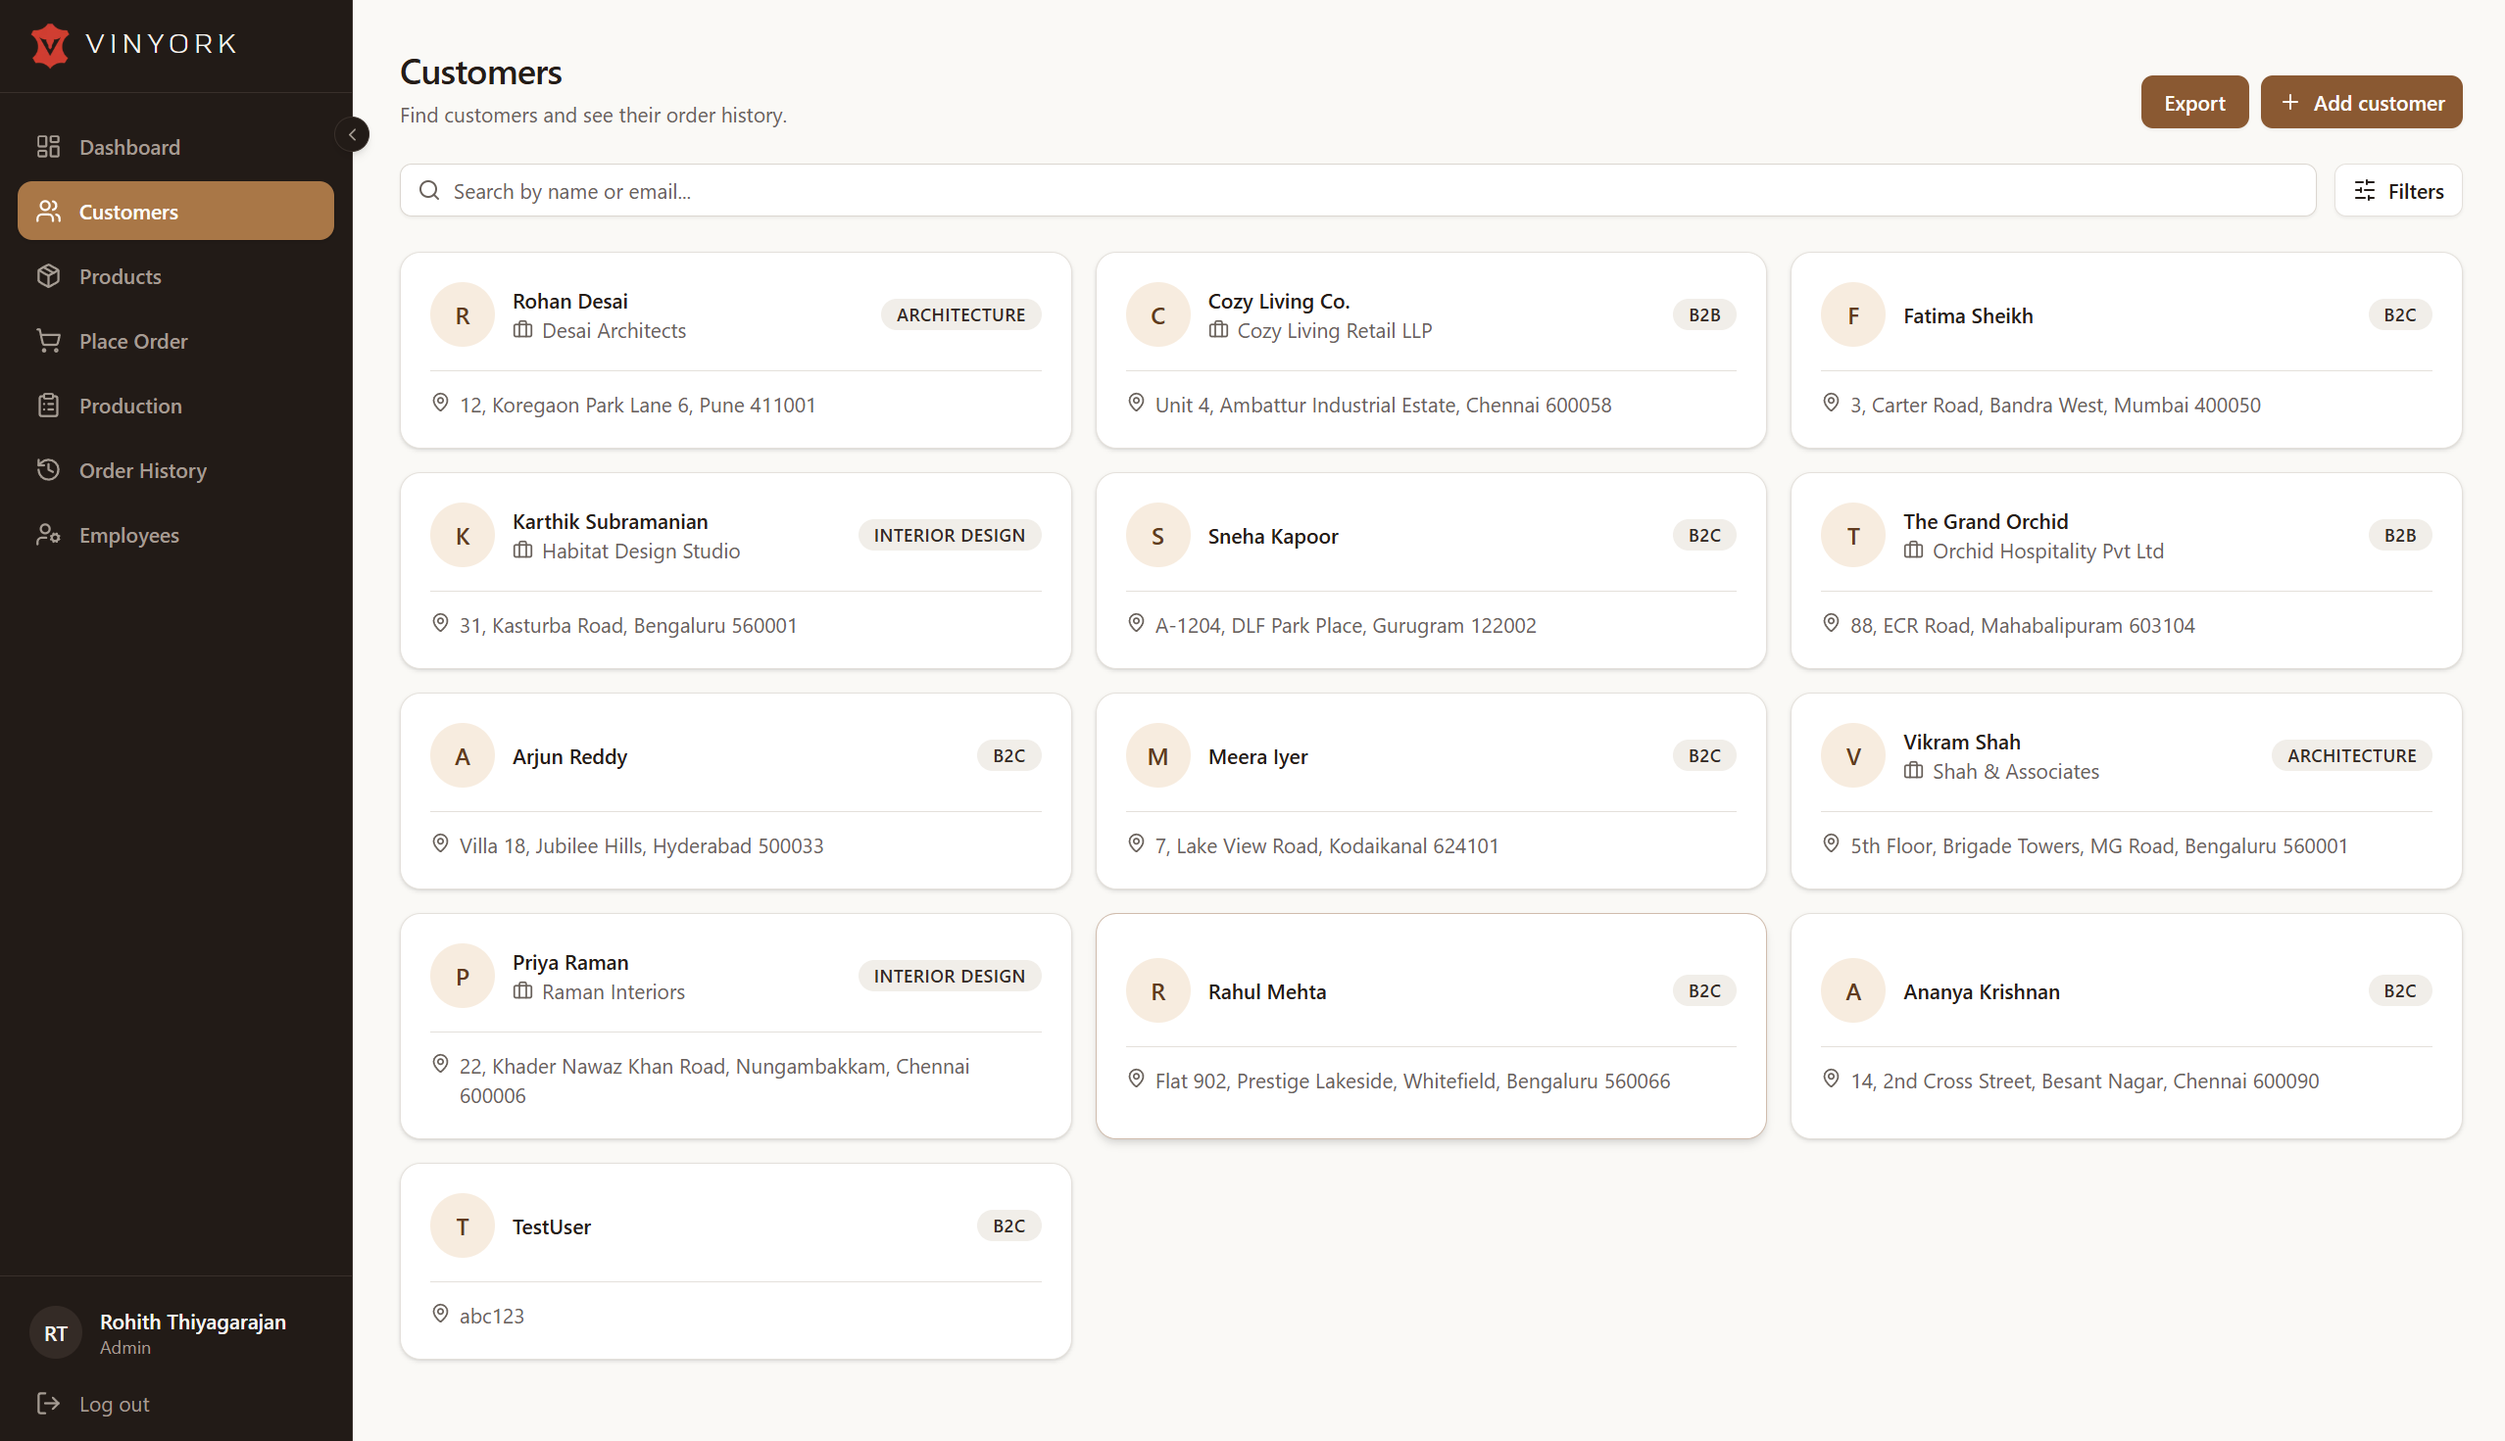
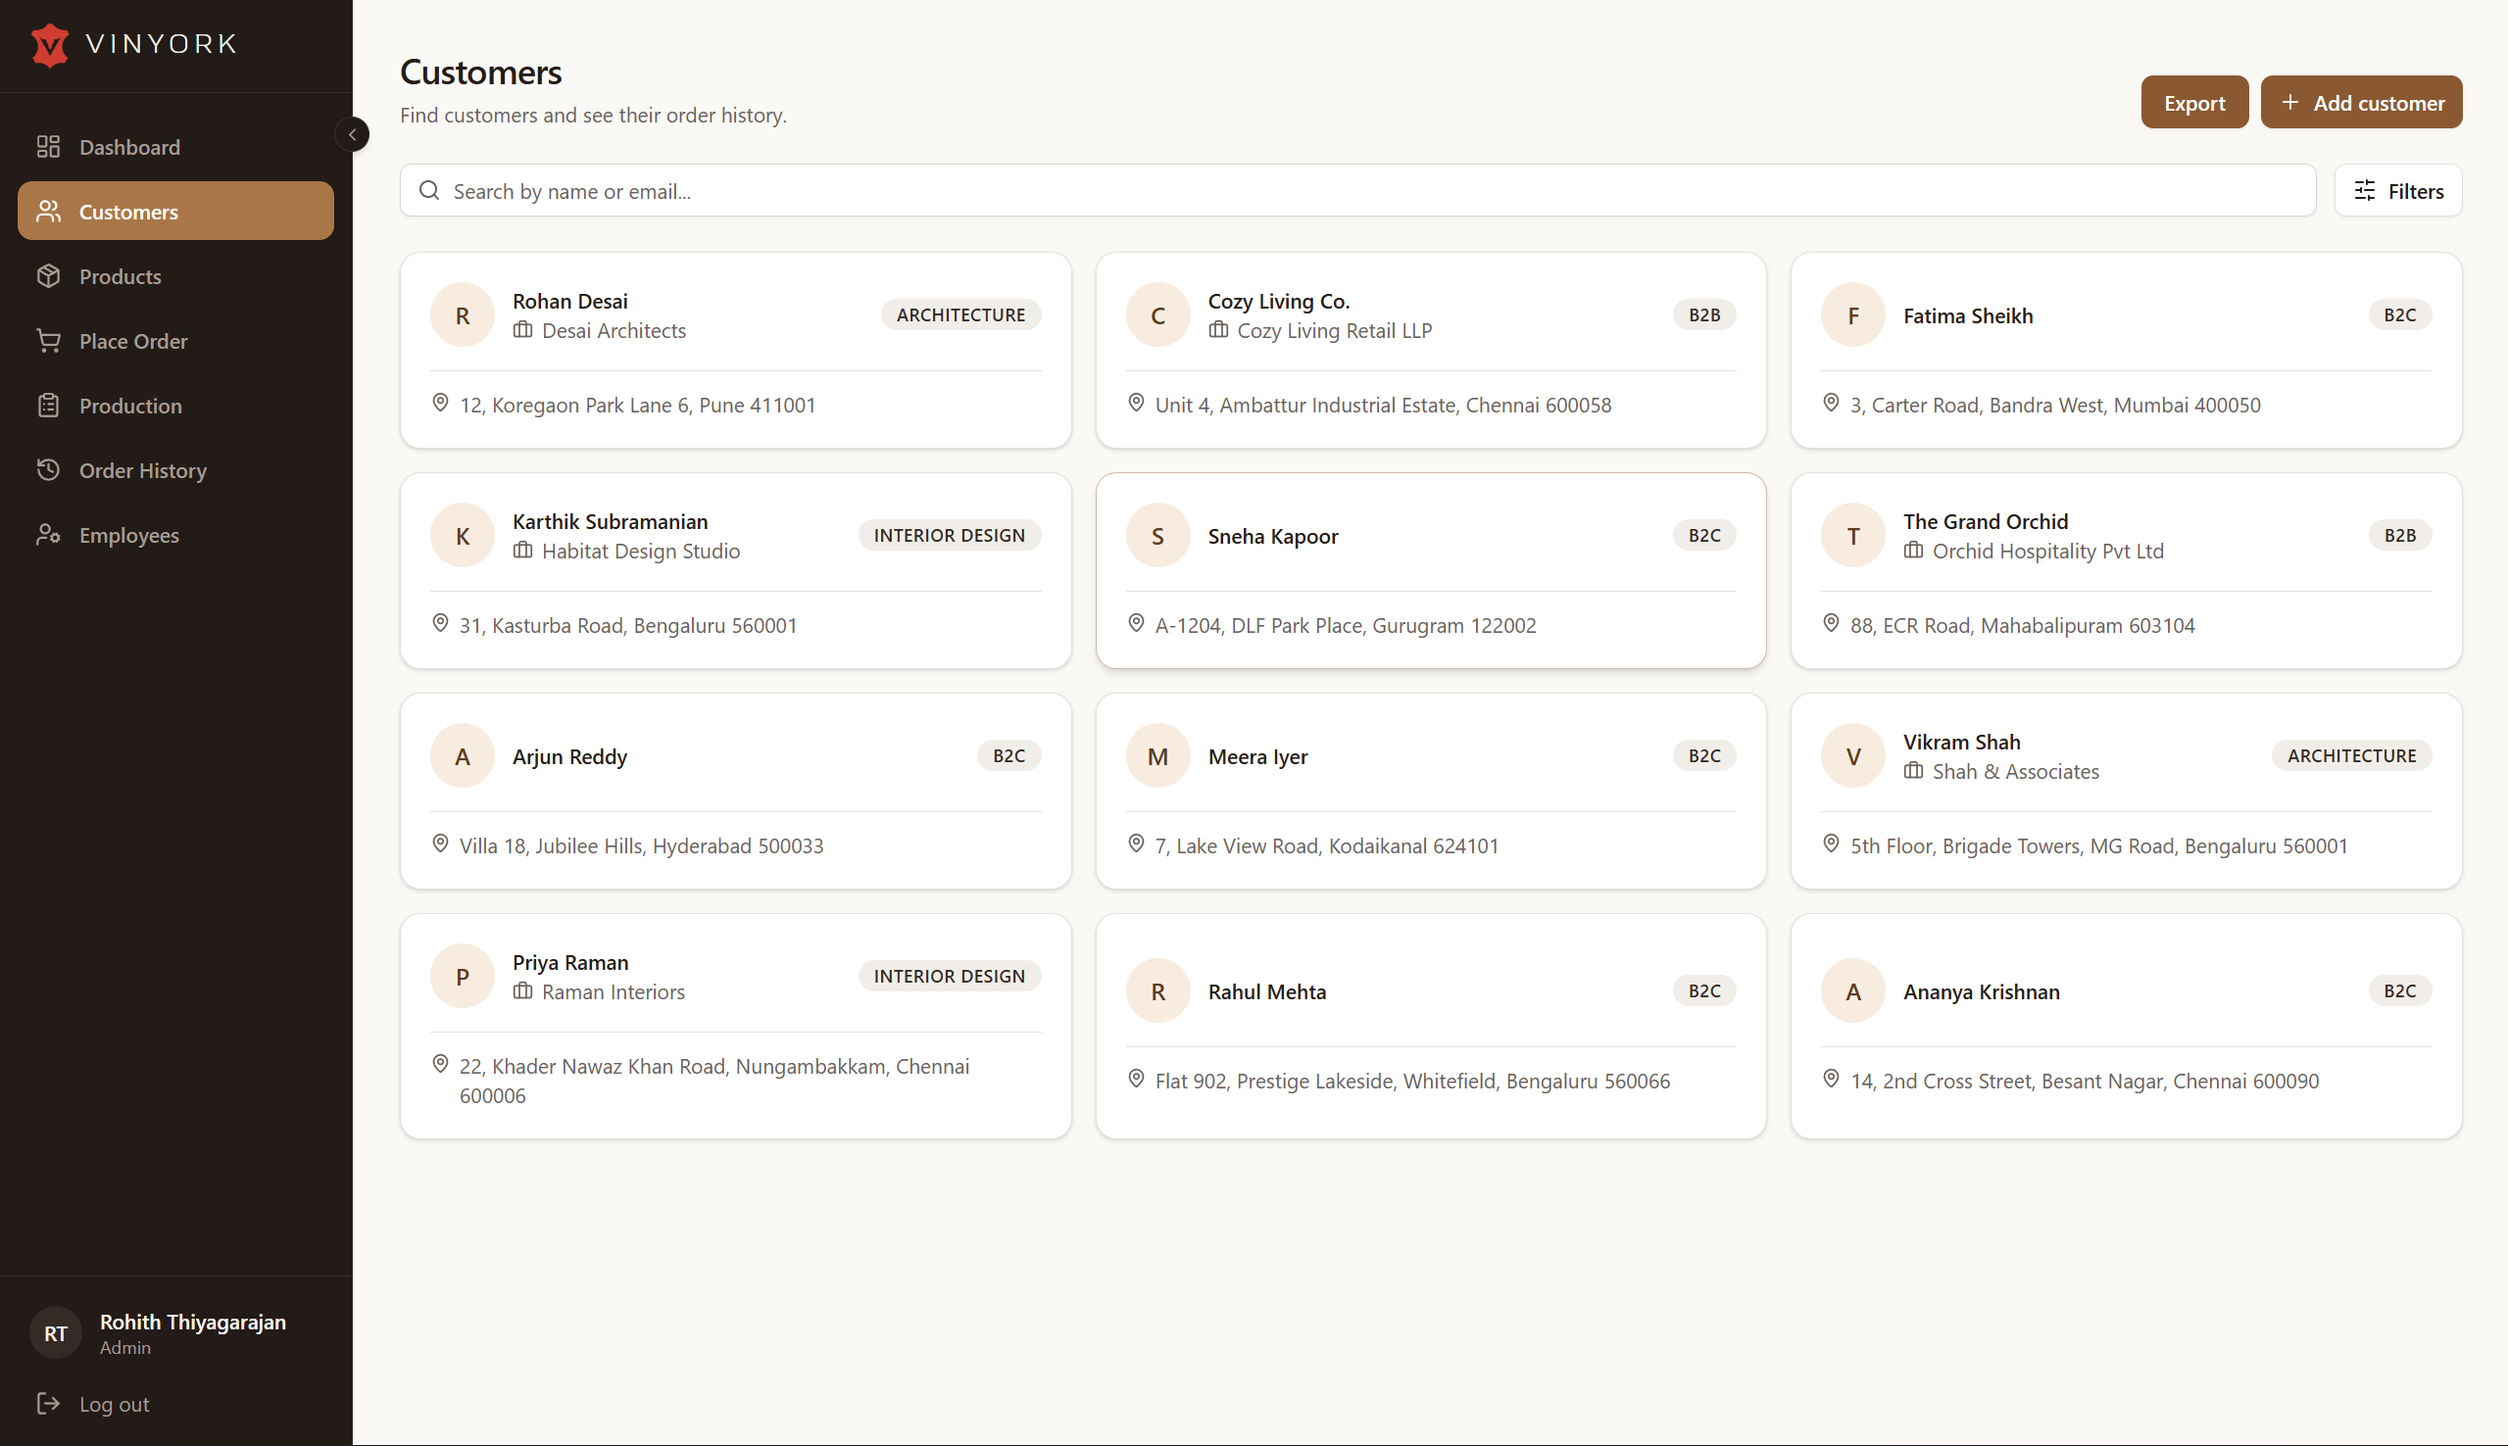
Add the Production screenshot and refresh the README images

diff --git a/README.md b/README.md
@@ -24,12 +24,15 @@ Every order item moves through six production stages, from carpentry to packing,
 
 <table>
   <tr>
+    <td width="50%"><img src="./screenshots/production.png" alt="Production" /><p align="center"><sub>Production</sub></p></td>
     <td width="50%"><img src="./screenshots/place-order.png" alt="Place order" /><p align="center"><sub>Place order</sub></p></td>
-    <td width="50%"><img src="./screenshots/products.png" alt="Products" /><p align="center"><sub>Products</sub></p></td>
   </tr>
   <tr>
+    <td width="50%"><img src="./screenshots/products.png" alt="Products" /><p align="center"><sub>Products</sub></p></td>
     <td width="50%"><img src="./screenshots/customers.png" alt="Customers" /><p align="center"><sub>Customers</sub></p></td>
-    <td width="50%"><img src="./screenshots/order-history.png" alt="Order history" /><p align="center"><sub>Order history</sub></p></td>
+  </tr>
+  <tr>
+    <td colspan="2"><img src="./screenshots/order-history.png" alt="Order history" /><p align="center"><sub>Order history</sub></p></td>
   </tr>
 </table>
 
